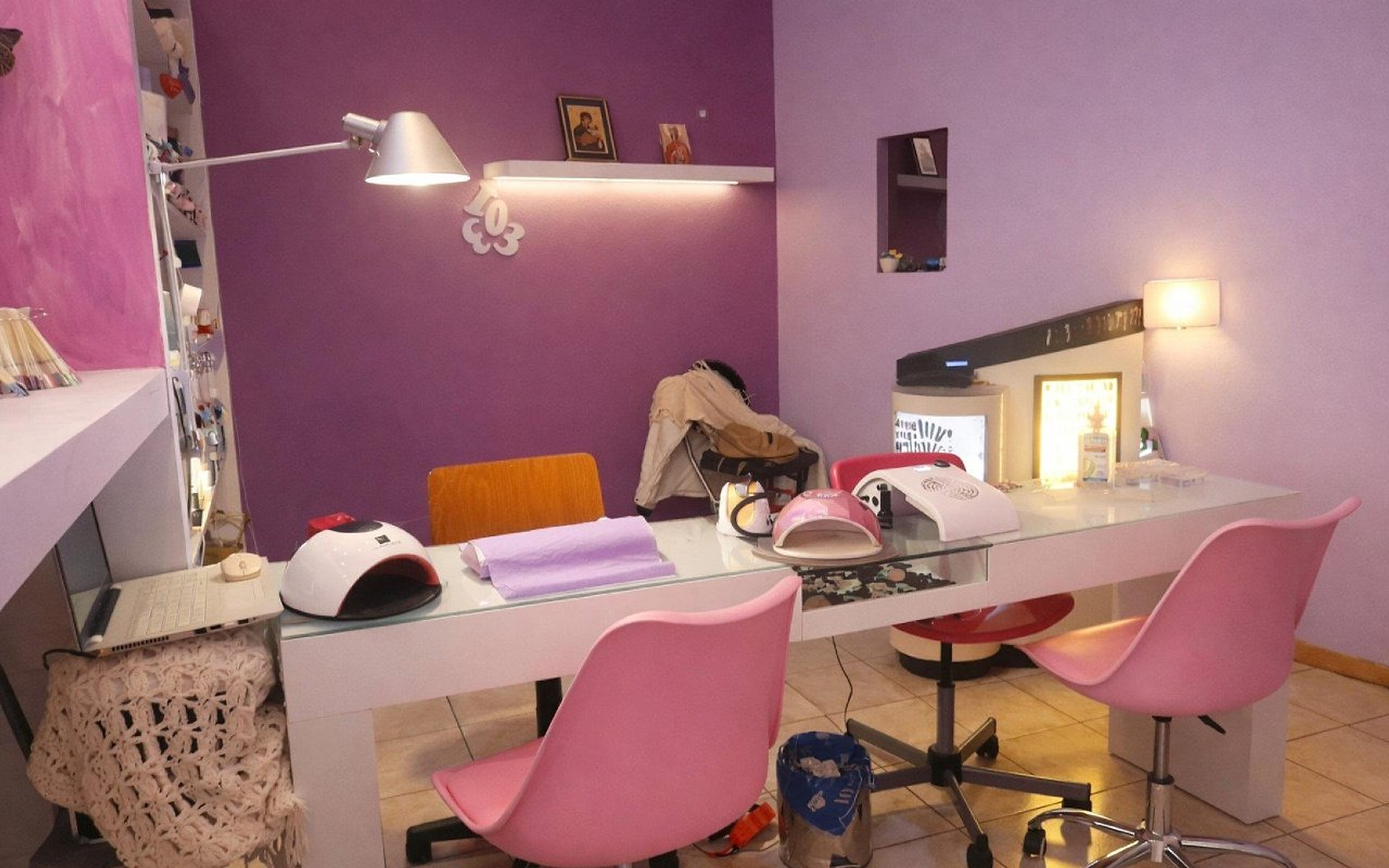
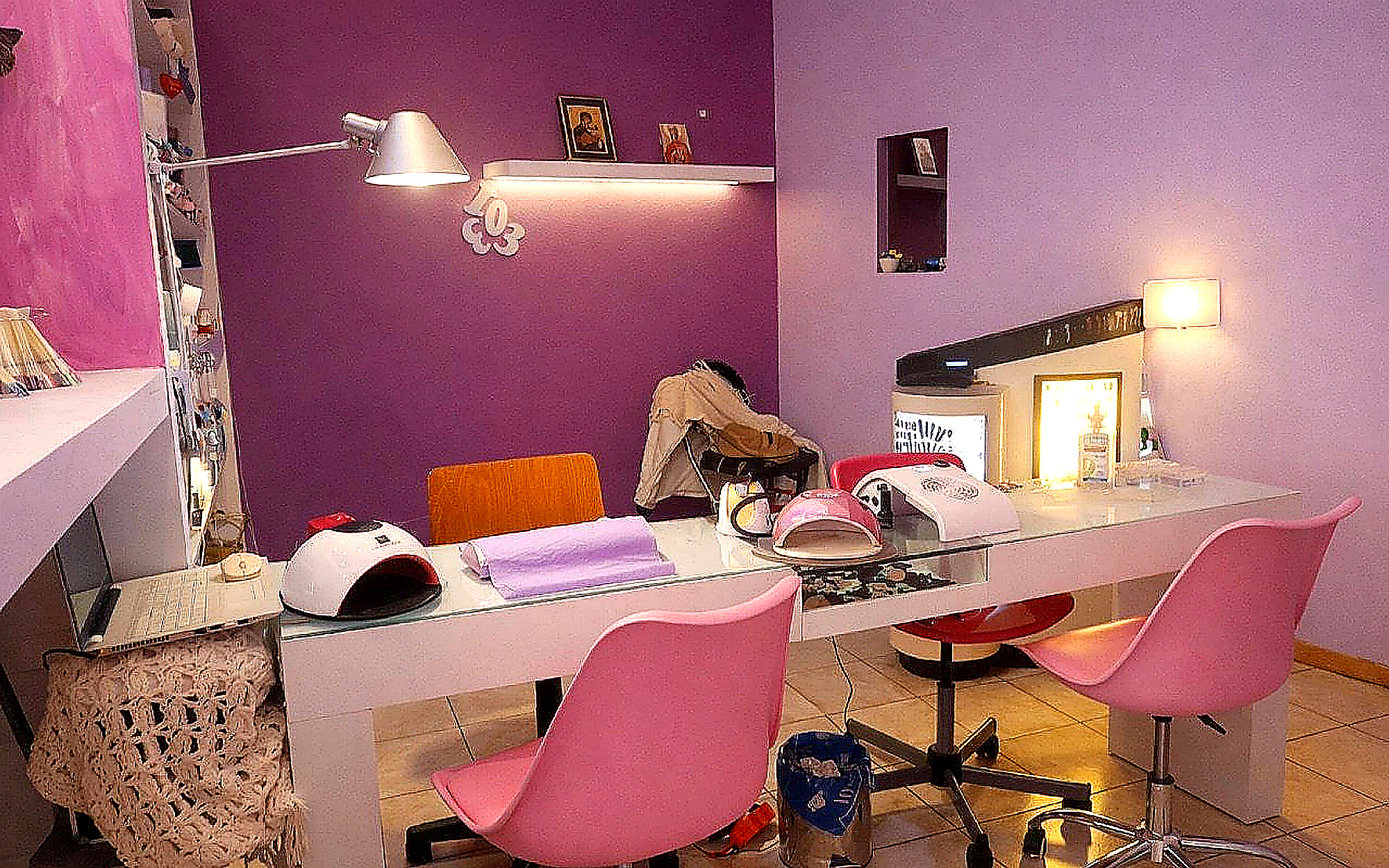
Fix soft photos: sharpened v4 assets + skip AVIF re-encode
Salon photos still looked soft because Vercel AVIF crushed ~400KB
JPEGs down to ~80KB. Serve sharpened v4 originals unoptimized and
drop AVIF so detail stays visible.

diff --git a/src/app/(public)/page.tsx b/src/app/(public)/page.tsx
@@ -1,6 +1,6 @@
 export const dynamic = "force-dynamic";
 
-import Image from "next/image";
+import { StoreImage } from "@/components/ui/store-image";
 import type { Metadata } from "next";
 import { HeroSection } from "@/components/public/hero-section";
 import { ServiceCard } from "@/components/public/service-card";
@@ -51,7 +51,7 @@ export default async function HomePage() {
         title={hero?.title || "Angel Nails"}
         subtitle={hero?.subtitle || "Η περιποίηση των άκρων, στη δική μας αισθητική."}
         body={hero?.body || "Μανικιούρ • Πεντικιούρ • Τεχνητά Νύχια • Nail Care"}
-        imageUrl={hero?.imageUrl || settings.heroImageUrl || "/images/store/venue-1-v3.jpg"}
+        imageUrl={hero?.imageUrl || settings.heroImageUrl || "/images/store/venue-1-v4.jpg"}
         treatwellUrl={settings.treatwellUrl}
       />
 
@@ -87,11 +87,10 @@ export default async function HomePage() {
           </FadeIn>
           <FadeIn delay={0.12}>
             <div className="relative aspect-[4/5] overflow-hidden bg-[#D8D5D2] shadow-[0_24px_60px_rgba(9,9,11,0.12)]">
-              <Image
-                src="/images/store/venue-2-v3.jpg"
+              <StoreImage
+                src="/images/store/venue-2-v4.jpg"
                 alt="Angel Nails — λεπτομέρεια νυχιών"
                 fill
-                quality={95}
                 className="object-cover"
                 sizes="(max-width: 768px) 100vw, 50vw"
               />
@@ -147,11 +146,10 @@ export default async function HomePage() {
               {gallery.slice(0, 6).map((img, i) => (
                 <FadeIn key={img.id} delay={i * 0.04} className={i === 0 ? "col-span-2 lg:col-span-1" : ""}>
                   <div className="relative aspect-[4/5] overflow-hidden bg-black/5">
-                    <Image
+                    <StoreImage
                       src={img.imageUrl}
                       alt={img.altText || img.title || "Angel Nails"}
                       fill
-                      quality={90}
                       className="object-cover transition duration-700 hover:scale-[1.02]"
                       sizes="(max-width: 768px) 50vw, 33vw"
                     />

diff --git a/src/components/public/hero-section.tsx b/src/components/public/hero-section.tsx
@@ -1,6 +1,6 @@
 "use client";
 
-import Image from "next/image";
+import { StoreImage } from "@/components/ui/store-image";
 import { motion, useReducedMotion } from "framer-motion";
 import { ButtonLink } from "@/components/ui/button-link";
 import { sharpStoreImage } from "@/lib/images/sharp-store";
@@ -26,16 +26,15 @@ export function HeroSection({
     <section className="relative overflow-hidden bg-[#09090B] text-white">
       {/* Mobile: full-bleed photo with lighter veil */}
       <div className="absolute inset-0 md:hidden">
-        <Image
+        <StoreImage
           src={photo}
           alt="Angel Nails — nail studio στους Αγίους Αναργύρους"
           fill
           priority
-          quality={95}
           sizes="100vw"
           className="object-cover object-[center_30%]"
         />
-        <div className="absolute inset-0 bg-gradient-to-t from-black via-black/55 to-black/30" />
+        <div className="absolute inset-0 bg-gradient-to-t from-black via-black/45 to-black/20" />
       </div>
 
       <div className="relative mx-auto grid min-h-[100svh] max-w-7xl md:grid-cols-2">
@@ -87,16 +86,15 @@ export function HeroSection({
 
         {/* Desktop photo — natural size, no heavy dark wash */}
         <div className="relative hidden min-h-[100svh] md:block">
-          <Image
+          <StoreImage
             src={photo}
             alt="Angel Nails — χώρος στο κατάστημα"
             fill
             priority
-            quality={95}
-            sizes="50vw"
+              sizes="50vw"
             className="object-cover object-center"
           />
-          <div className="absolute inset-0 bg-gradient-to-l from-transparent via-transparent to-black/35" />
+          <div className="absolute inset-0 bg-gradient-to-l from-transparent via-transparent to-black/25" />
         </div>
       </div>
     </section>

diff --git a/src/components/public/gallery-grid.tsx b/src/components/public/gallery-grid.tsx
@@ -1,6 +1,6 @@
 "use client";
 
-import Image from "next/image";
+import { StoreImage } from "@/components/ui/store-image";
 import { useMemo, useState } from "react";
 import { X } from "lucide-react";
 import type { GalleryImage } from "@prisma/client";
@@ -50,12 +50,11 @@ export function GalleryGrid({ images }: { images: GalleryImage[] }) {
                 onClick={() => setActive(img)}
                 className="group relative block w-full scroll-mt-28 overflow-hidden bg-[var(--brand-soft-white)]"
               >
-                <Image
+                <StoreImage
                   src={img.imageUrl}
                   alt={img.altText || img.title || "Angel Nails gallery"}
                   width={1200}
                   height={1500}
-                  quality={90}
                   loading="lazy"
                   sizes="(max-width: 640px) 100vw, (max-width: 1024px) 50vw, 33vw"
                   className="h-auto w-full object-cover transition duration-500 group-hover:scale-[1.02]"
@@ -84,12 +83,11 @@ export function GalleryGrid({ images }: { images: GalleryImage[] }) {
             <X />
           </button>
           <div className="relative max-h-[90vh] max-w-5xl" onClick={(e) => e.stopPropagation()}>
-            <Image
+            <StoreImage
               src={active.imageUrl}
               alt={active.altText || active.title || "Angel Nails gallery"}
               width={2000}
               height={1400}
-              quality={92}
               sizes="100vw"
               className="max-h-[85vh] w-auto object-contain"
             />

diff --git a/src/lib/images/sharp-store.ts b/src/lib/images/sharp-store.ts
@@ -1,10 +1,16 @@
 /** Normalize legacy/low-res store photo paths to sharp cache-busted assets. */
-export function sharpStoreImage(url?: string | null, fallback = "/images/store/venue-1-v3.jpg"): string {
+export function sharpStoreImage(url?: string | null, fallback = "/images/store/venue-1-v4.jpg"): string {
   if (!url) return fallback;
   const clean = url.split("?")[0];
-  if (clean.includes("venue-1")) return "/images/store/venue-1-v3.jpg";
-  if (clean.includes("venue-2")) return "/images/store/venue-2-v3.jpg";
-  if (clean.includes("venue-3")) return "/images/store/venue-3-v3.jpg";
-  if (clean.includes("venue-4")) return "/images/store/venue-4-v3.jpg";
+  if (clean.includes("venue-1")) return "/images/store/venue-1-v4.jpg";
+  if (clean.includes("venue-2")) return "/images/store/venue-2-v4.jpg";
+  if (clean.includes("venue-3")) return "/images/store/venue-3-v4.jpg";
+  if (clean.includes("venue-4")) return "/images/store/venue-4-v4.jpg";
   return url;
+}
+
+/** True when the URL is a local store photo that should skip Next image re-encoding. */
+export function isStorePhoto(url?: string | null): boolean {
+  if (!url) return false;
+  return url.includes("/images/store/");
 }

diff --git a/src/app/(public)/about/page.tsx b/src/app/(public)/about/page.tsx
@@ -1,6 +1,6 @@
 export const dynamic = "force-dynamic";
 
-import Image from "next/image";
+import { StoreImage } from "@/components/ui/store-image";
 import type { Metadata } from "next";
 import { FadeIn } from "@/components/ui/fade-in";
 import { ButtonLink } from "@/components/ui/button-link";
@@ -54,11 +54,10 @@ export default async function AboutPage() {
         </FadeIn>
         <FadeIn delay={0.08}>
           <div className="relative aspect-[4/5] overflow-hidden">
-            <Image
-              src={about?.imageUrl || "/images/store/venue-1.jpg"}
+            <StoreImage
+              src={about?.imageUrl || "/images/store/venue-1-v4.jpg"}
               alt="Angel Nails"
               fill
-              quality={90}
               className="object-cover"
               sizes="(max-width: 768px) 100vw, 50vw"
             />

diff --git a/src/components/ui/store-image.tsx b/src/components/ui/store-image.tsx
@@ -1,0 +1,32 @@
+import Image, { type ImageProps } from "next/image";
+import { isStorePhoto, sharpStoreImage } from "@/lib/images/sharp-store";
+
+/**
+ * Store photos must skip Next/Vercel AVIF recompression — it was crushing
+ * detail to ~80KB and making heroes look soft/pixelated.
+ */
+export function StoreImage({
+  src,
+  alt,
+  sharpen = true,
+  unoptimized,
+  quality,
+  ...props
+}: Omit<ImageProps, "src" | "alt"> & {
+  src: string;
+  alt: string;
+  sharpen?: boolean;
+}) {
+  const resolved = sharpen ? sharpStoreImage(src, src) : src;
+  const skipOptimize = isStorePhoto(resolved);
+
+  return (
+    <Image
+      {...props}
+      src={resolved}
+      alt={alt}
+      unoptimized={skipOptimize || Boolean(unoptimized)}
+      quality={quality ?? 95}
+    />
+  );
+}

diff --git a/next.config.ts b/next.config.ts
@@ -5,8 +5,9 @@ const nextConfig: NextConfig = {
     // Prefer sharp retina sizes so large desktop heroes don't look soft.
     deviceSizes: [640, 750, 828, 1080, 1200, 1920, 2048, 2560, 3840],
     imageSizes: [64, 96, 128, 256, 384, 512],
-    formats: ["image/avif", "image/webp"],
-    qualities: [75, 85, 90, 95],
+    // WebP only — AVIF was over-compressing salon photos (~80KB) and looked soft.
+    formats: ["image/webp"],
+    qualities: [75, 85, 90, 95, 100],
     remotePatterns: [
       { protocol: "https", hostname: "cdn1.treatwell.net" },
       { protocol: "https", hostname: "**.treatwell.net" },

diff --git a/src/lib/services/content.ts b/src/lib/services/content.ts
@@ -88,7 +88,7 @@ export const getSiteSettings = cache(async () => {
 
   return {
     ...settings,
-    heroImageUrl: sharpStoreImage(settings.heroImageUrl, "/images/store/venue-1.jpg?v=3"),
+    heroImageUrl: sharpStoreImage(settings.heroImageUrl, "/images/store/venue-1-v4.jpg"),
   };
 });
 
